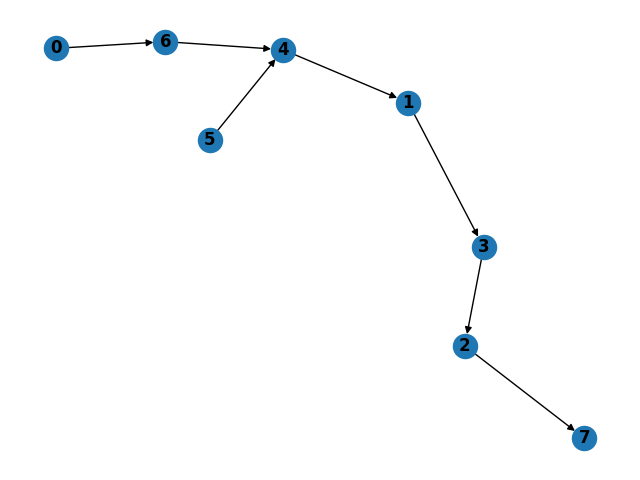
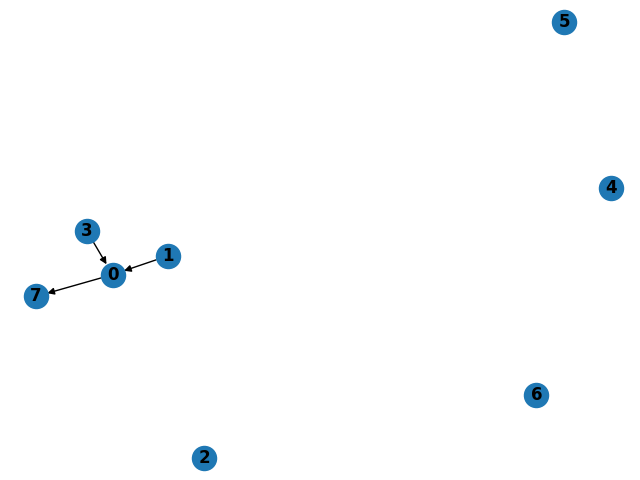
some refactoring of the code

diff --git a/TORA/TORAComponent.py b/TORA/TORAComponent.py
@@ -21,7 +21,6 @@ class ApplicationLayerMessageTypes(Enum):
     UPD = "UPDATE"
     CLR = "CLEAR"
     QRY = "QUERY"
-    MSG = "MESSAGE"
 
 
 class TORAHeight:
@@ -95,14 +94,15 @@ class RoutingTORAApplicationLayerComponent(GenericModel):
             None, None, None, None, self.componentinstancenumber
         )
 
-        self.last_upd: int = 0
-        self.rr: bool = 0
+        self.last_update: int = 0
+        self.route_required: bool = 0
         self.N: Dict[int, Tuple[TORAHeight, int]] = {}
         self.lock: Lock = Lock()
 
     def on_init(self, eventobj: Event):
         pass
-
+    
+    # When node gets message
     def on_message_from_bottom(self, eventobj: Event):
         self.update_time()
         with self.lock:
@@ -113,28 +113,45 @@ class RoutingTORAApplicationLayerComponent(GenericModel):
                 if hdr.messagetype == ApplicationLayerMessageTypes.QRY:
                     print("GOT QRY")
                     # print(payload.)
-                    self.handle_qry(payload.did, hdr.messagefrom)
+                    self.process_query_message(payload.did, hdr.messagefrom)
                 elif hdr.messagetype == ApplicationLayerMessageTypes.UPD:
-                    self.handle_upd(
+                    self.process_update_message(
                         payload.did,
                         hdr.messagefrom,
                         payload.height,
                         payload.link_reversal,
                     )
                 elif hdr.messagetype == ApplicationLayerMessageTypes.CLR:
-                    self.handle_clr(payload.did, payload.reference)
-                elif hdr.messagetype == ApplicationLayerMessageTypes.MSG:
-                    self.handle_msg(payload.did, payload.message)
+                    self.process_clear_message(payload.did, payload.reference)
+                else:
+                    raise Exception("Unkown message type")
             except AttributeError:
                 print("Attribute Error")
         self.update_time()
 
-    def handle_qry(self, did: int, fromid: int):
+    def process_query_message(self, did: int, fromid: int):
+        ''' Excerpt from the paper:
+        (a) If the receiving node has no downstream links and its router-equired flag is un-set, it re-broadcasts 
+            the QRY packet and sets its route-required flag. 
+        
+        (b) If the receiving node has no downstream links and the route-required flag is set, it discards 
+            the QRY packet.
+            
+        (c) If the receiving node has at least one downstream link and its height is NULL, it sets its height to
+            Hi = (τj, oidj, rj, δj + 1, i), where HNi, j = (τj, oidj, rj, δj, j) is the minimum height of its 
+            non-NULL neighbors, and broadcasts an UPD packet.
+            
+        (d) If the receiving node has at least one downstream link and its height is non-NULL, it first compares the 
+            time the last UPD packet was broadcast to the time the link over which the QRY packet was received became 
+            active. If an UPD packet has been broadcast since the link became active , it discards the QRY packet; 
+            otherwise, it broadcasts an UPD packet. If a node has the route-required flag set when a new link is 
+            established, it broadcasts a QRY packet.
+        '''
         downstream_links = self.get_downstream_links()
 
         if len(downstream_links) == 0:
-            if self.rr == 0:
-                self.broadcast_qry(did)
+            if self.route_required == 0:
+                self.broadcast_query_message(did)
             else:
                 pass
         elif self.height.delta is None:
@@ -146,15 +163,15 @@ class RoutingTORAApplicationLayerComponent(GenericModel):
                 min_height.delta + 1,
                 self.componentinstancenumber,
             )
-            self.broadcast_upd(did, False)
+            self.broadcast_update_message(did, False)
         elif fromid not in self.N or (
-            fromid in self.N and self.N[fromid][1] > self.last_upd
+            fromid in self.N and self.N[fromid][1] > self.last_update
         ):
-            self.broadcast_upd(did, False)
+            self.broadcast_update_message(did, False)
         else:
             pass
 
-    def handle_upd(self, did: int, from_id: int, height: TORAHeight, link_reversal: bool):
+    def process_update_message(self, did: int, from_id: int, height: TORAHeight, link_reversal: bool):
         self.set_neighbour_height(from_id, height)
         downstream_links = self.get_downstream_links()
 
@@ -201,7 +218,7 @@ class RoutingTORAApplicationLayerComponent(GenericModel):
             else:
                 self.maintenance_case_5(did)
         else:
-            if self.rr == 1:
+            if self.route_required == 1:
                 min_height = self.get_minimum_height_between_neighbours()
                 self.height = TORAHeight(
                     min_height.tau,
@@ -210,13 +227,13 @@ class RoutingTORAApplicationLayerComponent(GenericModel):
                     min_height.delta + 1,
                     self.componentinstancenumber,
                 )
-                self.rr = 0
-                self.broadcast_upd(did, False)
+                self.route_required = 0
+                self.broadcast_update_message(did, False)
             else:
                 if len(downstream_links) == 0 and self.componentinstancenumber != did:
                     self.maintenance_case_1(did)
 
-    def handle_clr(self, did: int, reference: Tuple[int, int, int]):
+    def process_clear_message(self, did: int, reference: Tuple[int, int, int]):
         if reference == (self.height.tau, self.height.oid, self.height.r):
             self.height = TORAHeight(
                 None, None, None, None, self.componentinstancenumber
@@ -242,31 +259,7 @@ class RoutingTORAApplicationLayerComponent(GenericModel):
                     self.componentinstancenumber,
                 )
         if reference == (self.height.tau, self.height.oid, self.height.r):
-            self.broadcast_clr(did, reference)
-
-    # TODO: To be studied further. Can we not use this?
-    def handle_msg(self, did: int, message: str):
-        print("HASLKDAJLSKDL")
-        if did == self.componentinstancenumber:
-            print(f"{self.componentinstancenumber} says: Got a message: {message}")
-        elif len(self.get_downstream_links()) == 0:
-            print(
-                f"{self.componentinstancenumber} says: Sorry I can't route this message :("
-            )
-        else:
-            min_neighbour = self.get_minimum_height_between_neighbours()
-            print(
-                f"{self.componentinstancenumber} says: Forwarding a message: {message}"
-            )
-            hdr = ApplicationLayerMessageHeader(
-                ApplicationLayerMessageTypes.MSG,
-                self.componentinstancenumber,
-                min_neighbour.i,
-            )
-            msg = GenericMessage(
-                hdr, ApplicationLayerMessageMessagePayload(did, message)
-            )
-            self.send_down(Event(self, EventTypes.MFRT, msg))
+            self.broadcast_clear_message(did, reference)
 
     def maintenance_case_1(self, did: int):
         upstream_links = self.get_upstream_links()
@@ -284,7 +277,7 @@ class RoutingTORAApplicationLayerComponent(GenericModel):
                 self.componentinstancenumber,
             )
 
-        self.broadcast_upd(did, True)
+        self.broadcast_update_message(did, True)
 
     def maintenance_case_2(self, did: int, reference: TORAHeight):
         self.height = TORAHeight(
@@ -294,13 +287,13 @@ class RoutingTORAApplicationLayerComponent(GenericModel):
             reference.delta - 1,
             self.componentinstancenumber,
         )
-        self.broadcast_upd(did, True)
+        self.broadcast_update_message(did, True)
 
     def maintenance_case_3(self, did: int, reference: TORAHeight):
         self.height = TORAHeight(
             reference.tau, reference.oid, 1, 0, self.componentinstancenumber
         )
-        self.broadcast_upd(did, True)
+        self.broadcast_update_message(did, True)
 
     def maintenance_case_4(self, did: int):
         self.height = TORAHeight(None, None, None, None, self.componentinstancenumber)
@@ -316,7 +309,7 @@ class RoutingTORAApplicationLayerComponent(GenericModel):
                 self.componentinstancenumber,
             )
 
-        self.broadcast_clr(did, (self.height.tau, self.height.oid, 1))
+        self.broadcast_clear_message(did, (self.height.tau, self.height.oid, 1))
 
     def maintenance_case_5(self, did: int):
         self.height = TORAHeight(
@@ -326,7 +319,7 @@ class RoutingTORAApplicationLayerComponent(GenericModel):
             0,
             self.componentinstancenumber,
         )
-        self.broadcast_upd(did, True)
+        self.broadcast_update_message(did, True)
 
     def get_minimum_height_between_neighbours(self) -> TORAHeight:
         downstream_links = self.get_downstream_links()
@@ -354,20 +347,20 @@ class RoutingTORAApplicationLayerComponent(GenericModel):
             filter(lambda link: link[1][0].delta >= height_delta, list(self.N.items()))
         )
 
-    def broadcast_qry(self, did: int):
-        self.rr = 1
+    def broadcast_query_message(self, did: int):
+        self.route_required = 1
         self.broadcast(
             ApplicationLayerQueryMessagePayload(did), ApplicationLayerMessageTypes.QRY
         )
 
-    def broadcast_upd(self, did: int, link_reversal: bool):
-        self.last_upd = time.time()
+    def broadcast_update_message(self, did: int, link_reversal: bool):
+        self.last_update = time.time()
         self.broadcast(
             ApplicationLayerUpdateMessagePayload(did, self.height, link_reversal),
             ApplicationLayerMessageTypes.UPD,
         )
 
-    def broadcast_clr(self, did: int, reference: Tuple[int, int, int]):
+    def broadcast_clear_message(self, did: int, reference: Tuple[int, int, int]):
         self.broadcast(
             ApplicationLayerClearMessagePayload(did, reference),
             ApplicationLayerMessageTypes.CLR,
@@ -427,8 +420,6 @@ class RoutingTORAComponent(GenericModel):
         self.linklayer.connect_me_to_component(ConnectorTypes.DOWN, self)
         self.connect_me_to_component(ConnectorTypes.UP, self.linklayer)
 
-        # super().__init__(componentname, componentid)
-
     def on_init(self, eventobj: Event):
         pass
 
@@ -437,12 +428,6 @@ class RoutingTORAComponent(GenericModel):
 
     def on_message_from_bottom(self, eventobj: Event):
         self.send_up(Event(self, EventTypes.MFRB, eventobj.eventcontent))
-
-    def init_route_creation(self, did: int):
-        self.appllayer.handle_qry(did, self.componentinstancenumber)
-
-    def set_height(self, height: TORAHeight):
-        self.appllayer.set_height(height)
 
     def send_message(self, did: int, message: str):
         self.appllayer.handle_msg(did, message)

diff --git a/tests/testTORA.py b/tests/testTORA.py
@@ -33,10 +33,10 @@ def deterministic_test1():
     topo.start()
 
     t = time.time()
-    topo.nodes[destination_id].set_height(destination_height)
-    topo.nodes[source_id].init_route_creation(destination_id)
+    topo.nodes[destination_id].appllayer.set_height(destination_height)
+    # topo.nodes[source_id].init_route_creation(destination_id)
+    topo.nodes[source_id].appllayer.process_query_message(destination_id, source_id)
     print(wait_for_action_to_complete() - t)
-    # topo.nodes[source_id].send_message(destination_id, "Hey there! Test message")
 
 
     # DRAW Final DAG 
@@ -68,10 +68,11 @@ def random_test_by_graph_size(size, destination_id=7, source_id=0, save_graph=Fa
     topo.start()
 
     t = time.time()
-    topo.nodes[destination_id].set_height(destination_height)
-    topo.nodes[source_id].init_route_creation(destination_id)
+    topo.nodes[destination_id].appllayer.set_height(destination_height)
+    # topo.nodes[source_id].init_route_creation(destination_id)
+    topo.nodes[source_id].appllayer.process_query_message(destination_id, source_id)
+
     print(wait_for_action_to_complete() - t)
-    # topo.nodes[source_id].send_message(destination_id, "Test message")
 
     G2 = nx.DiGraph()
     for node, height in heights(topo):
@@ -87,9 +88,9 @@ def random_test_by_graph_size(size, destination_id=7, source_id=0, save_graph=Fa
         plt.savefig("FinalGraph.png")
 
 def main():
-    # deterministic_test1()
+    deterministic_test1()
     # random_test_by_graph_size(size=8, source_id=0, destination_id=7, save_graph=True)
-    random_test_by_graph_size(size=100, source_id=0, destination_id=99)
+    # random_test_by_graph_size(size=100, source_id=0, destination_id=99)
     
 
 if __name__ == "__main__":
